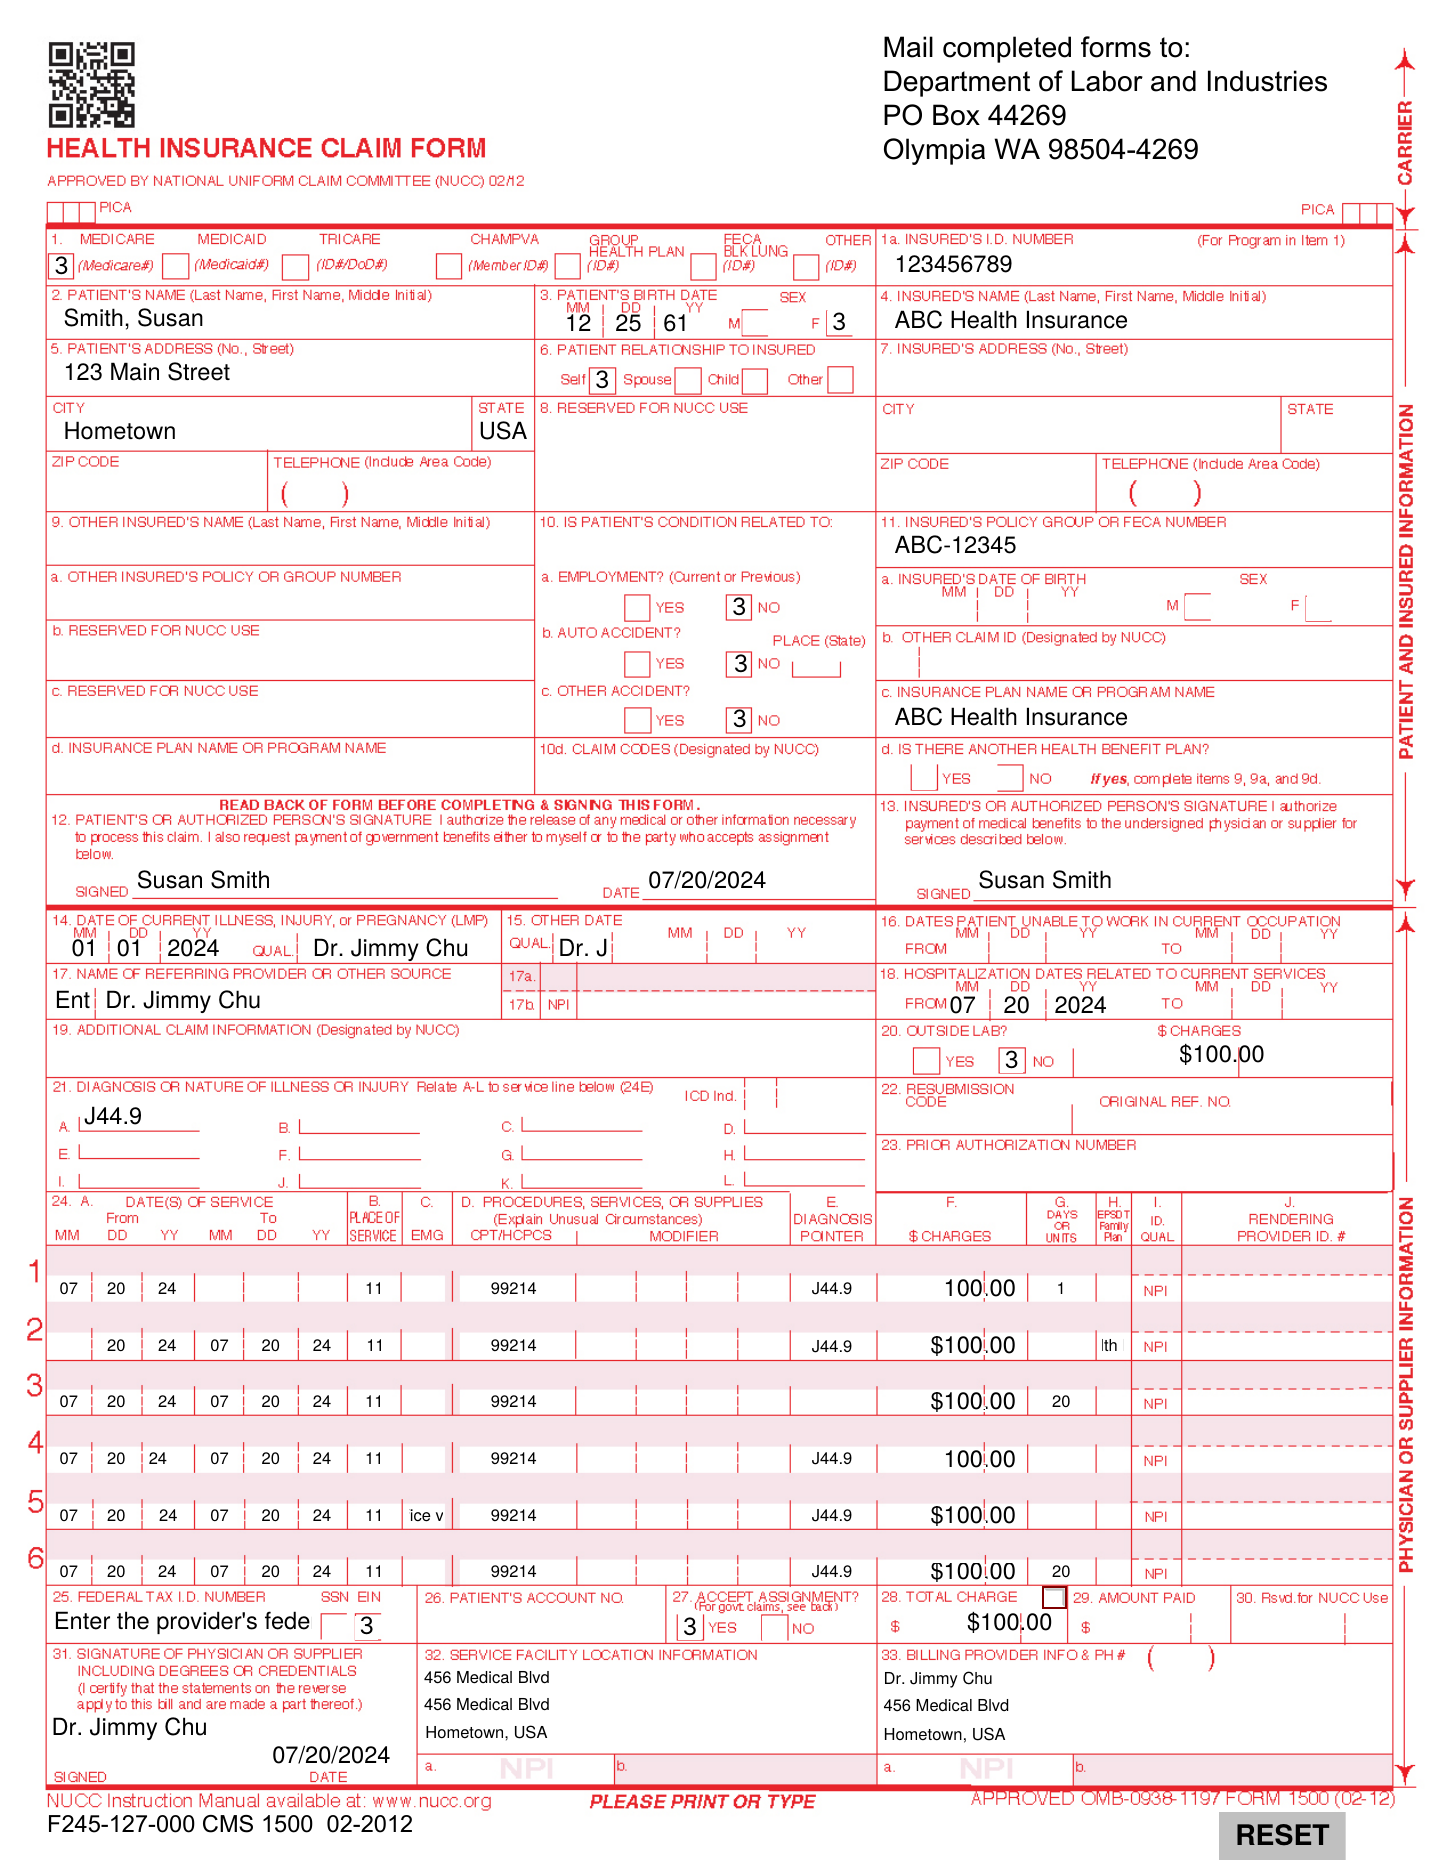
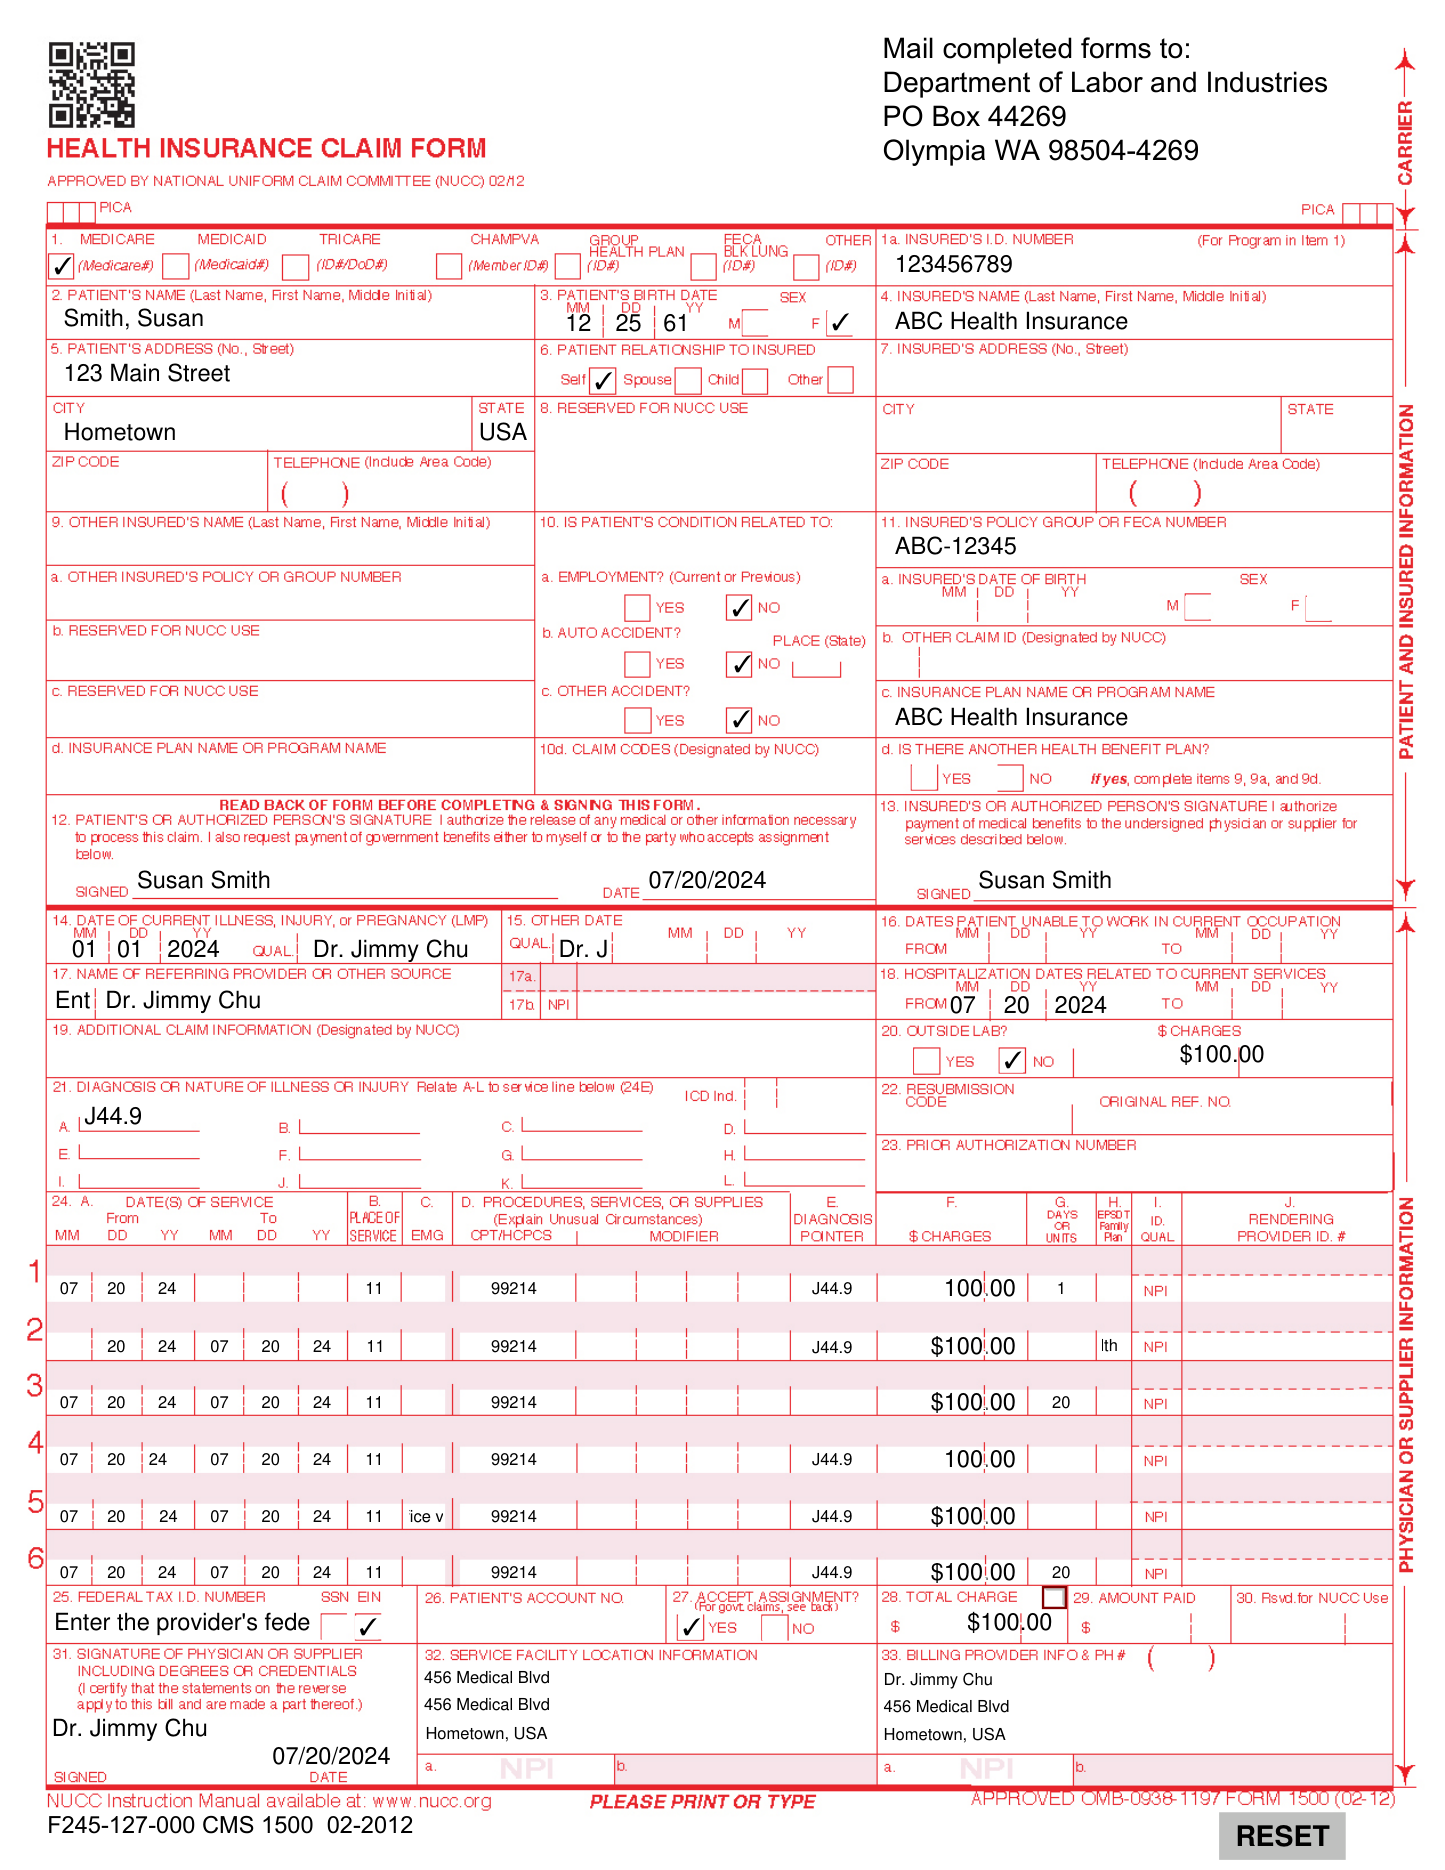
Show reference images full width; fix checkmarks on CMS-1500 image
Claude-Session: https://claude.ai/code/session_01JkWBC3crP6VWPZroqkvCpb

diff --git a/src/components/ExamClient.tsx b/src/components/ExamClient.tsx
@@ -239,11 +239,14 @@ export default function ExamClient({ slug }: { slug: string }) {
                     <figcaption>{st.caption}</figcaption>
                   </figure>
                 ) : (
-                  <button key={st.file} className="stim" onClick={() => setViewer(st)}>
+                  <figure key={st.file} className="stim stim-full">
+                    <div className="stim-head">
+                      <figcaption>{st.caption}</figcaption>
+                      <button className="btn zoom-btn" onClick={() => setViewer(st)}>Zoom</button>
+                    </div>
                     {/* eslint-disable-next-line @next/next/no-img-element */}
                     <img src={st.url} alt={st.caption} draggable={false} />
-                    <figcaption>{st.caption} <span className="zoom-hint">Click to enlarge</span></figcaption>
-                  </button>
+                  </figure>
                 ),
               )}
             </div>

diff --git a/src/components/exam.css b/src/components/exam.css
@@ -77,3 +77,11 @@
   .timer { font-size: 1.1rem; padding: 3px 10px; }
   .exam-inner { padding: 20px 16px 80px; }
 }
+
+/* Reference images shown at full width (no click needed); Zoom opens the viewer for detail. */
+.stimuli { grid-template-columns: 1fr; }
+.stim-full { cursor: default; padding: 12px; }
+.stim-full img { height: auto; max-height: none; object-fit: unset; width: 100%; }
+.stim-head { display: flex; justify-content: space-between; align-items: center; gap: 10px; margin-bottom: 8px; }
+.stim-full figcaption { margin: 0; font-size: 14px; }
+.zoom-btn { min-height: 32px; padding: 4px 12px; font-size: 13px; }
